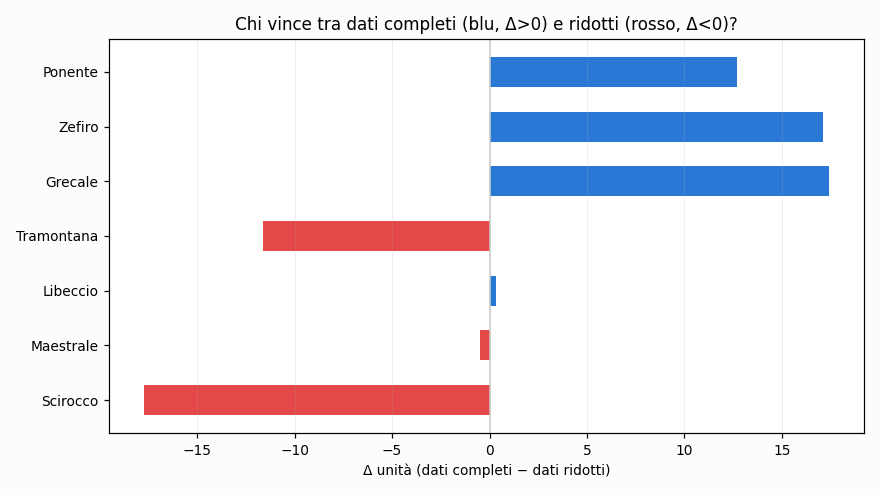
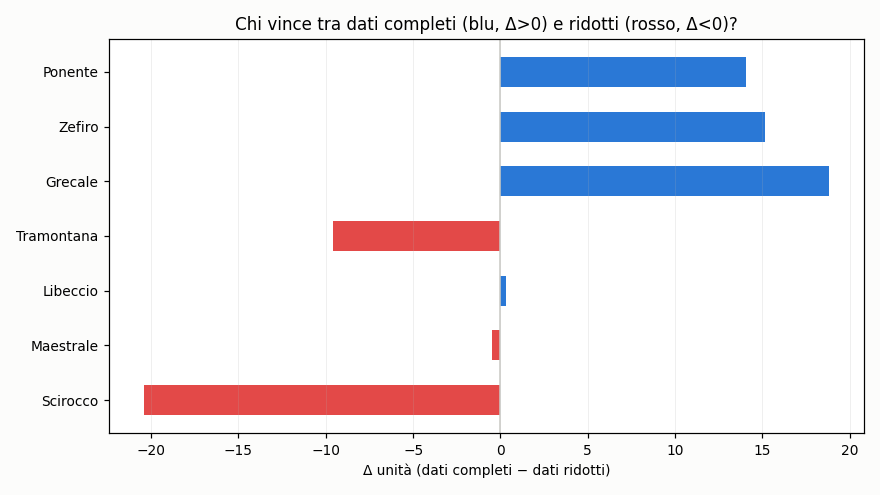
aggiornamento 2026-07-25 13:01 UTC

diff --git a/README.md b/README.md
@@ -37,9 +37,9 @@ scala in unità). Non indichiamo quale.
 
 ## Grafici
 
-![Coppie: dati completi vs ridotti](https://raw.githubusercontent.com/Kitem19/ippica-track-record/main/charts/equity_pairs.png?v=b28a3898)
+![Coppie: dati completi vs ridotti](https://raw.githubusercontent.com/Kitem19/ippica-track-record/main/charts/equity_pairs.png?v=c8ec89d5)
 
-![Delta per coppia](https://raw.githubusercontent.com/Kitem19/ippica-track-record/main/charts/coppie_delta.png?v=1e1f87ef)
+![Delta per coppia](https://raw.githubusercontent.com/Kitem19/ippica-track-record/main/charts/coppie_delta.png?v=5b23c693)
 
 ### Come leggere i grafici
 
@@ -56,34 +56,34 @@ scala in unità). Non indichiamo quale.
 
 _Poche giornate: numeri ancora rumorosi, si conclude a fine fase (31/7)._
 
-- **Scirocco**: dati ridotti avanti di 17,8u — qui gli extra non aiutano
+- **Scirocco**: dati ridotti avanti di 20,4u — qui gli extra non aiutano
 - **Maestrale**: in sostanziale pareggio — troppo presto per dire
 - **Libeccio**: in sostanziale pareggio — troppo presto per dire
-- **Tramontana**: dati ridotti avanti di 11,6u — qui gli extra non aiutano
-- **Grecale**: dati completi avanti di 17,4u
-- **Zefiro**: dati completi avanti di 17,1u
-- **Ponente**: dati completi avanti di 12,7u
+- **Tramontana**: dati ridotti avanti di 9,6u — qui gli extra non aiutano
+- **Grecale**: dati completi avanti di 18,8u
+- **Zefiro**: dati completi avanti di 15,1u
+- **Ponente**: dati completi avanti di 14,1u
 
 ## Classifica (conteggio ufficiale)
 
 | Sistema | Cassa (u) | P/L (u) | Selezioni | Escluse | Stato |
 |---|---|---|---|---|---|
-| Scirocco-B | 17,7 | -2,3 | 203 | 0 | 🟢 |
-| Grecale | 17,2 | -2,8 | 274 | 4 | 🟢 |
-| Zefiro | 16,7 | -3,3 | 241 | 5 | 🟢 |
-| Ponente | 11,7 | -8,3 | 188 | 28 | 🟢 |
-| Tramontana-B | 11,3 | -8,7 | 304 | 0 | 🟢 |
-| Maestrale-B | 0,0 | -20,0 | 100 | 203 | 🛑 |
-| Scirocco | 0,0 | -20,1 | 80 | 214 | 🛑 |
-| Grecale-B | 0,0 | -20,2 | 137 | 144 | 🛑 |
-| Tramontana | 0,0 | -20,3 | 45 | 277 | 🛑 |
+| Scirocco-B | 20,4 | +0,4 | 205 | 0 | 🟢 |
+| Grecale | 18,6 | -1,4 | 276 | 4 | 🟢 |
+| Zefiro | 14,7 | -5,3 | 243 | 5 | 🟢 |
+| Ponente | 13,1 | -6,9 | 190 | 28 | 🟢 |
+| Tramontana-B | 9,3 | -10,7 | 306 | 0 | 🟢 |
+| Maestrale-B | 0,0 | -20,0 | 100 | 205 | 🛑 |
+| Scirocco | 0,0 | -20,1 | 80 | 216 | 🛑 |
+| Grecale-B | 0,0 | -20,2 | 137 | 146 | 🛑 |
+| Tramontana | 0,0 | -20,3 | 45 | 279 | 🛑 |
 | Zefiro-B | 0,0 | -20,5 | 143 | 51 | 🛑 |
-| Maestrale | 0,0 | -20,5 | 104 | 225 | 🛑 |
-| Libeccio | 0,0 | -20,6 | 181 | 134 | 🛑 |
-| Libeccio-B | 0,0 | -20,9 | 119 | 149 | 🛑 |
-| Ponente-B | 0,0 | -21,0 | 63 | 71 | 🛑 |
+| Maestrale | 0,0 | -20,5 | 104 | 227 | 🛑 |
+| Libeccio | 0,0 | -20,6 | 181 | 136 | 🛑 |
+| Libeccio-B | 0,0 | -20,9 | 119 | 151 | 🛑 |
+| Ponente-B | 0,0 | -21,0 | 63 | 73 | 🛑 |
 
-_Aggiornato: 25/07 14:56_
+_Aggiornato: 25/07 15:01_
 ---
 *Nessuna delle informazioni qui pubblicate costituisce consiglio di gioco.
 Il gioco può causare dipendenza — 18+.*
